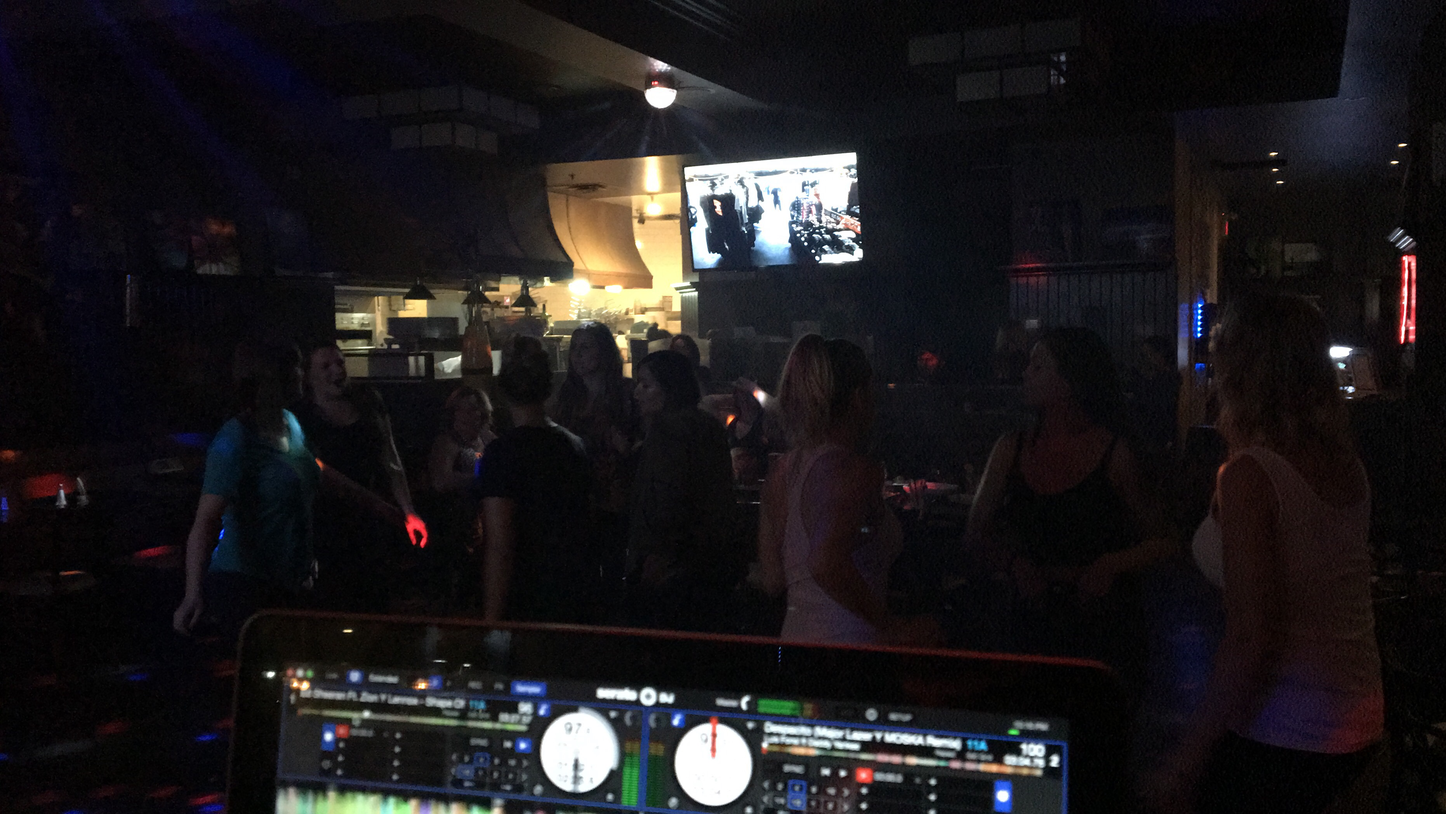
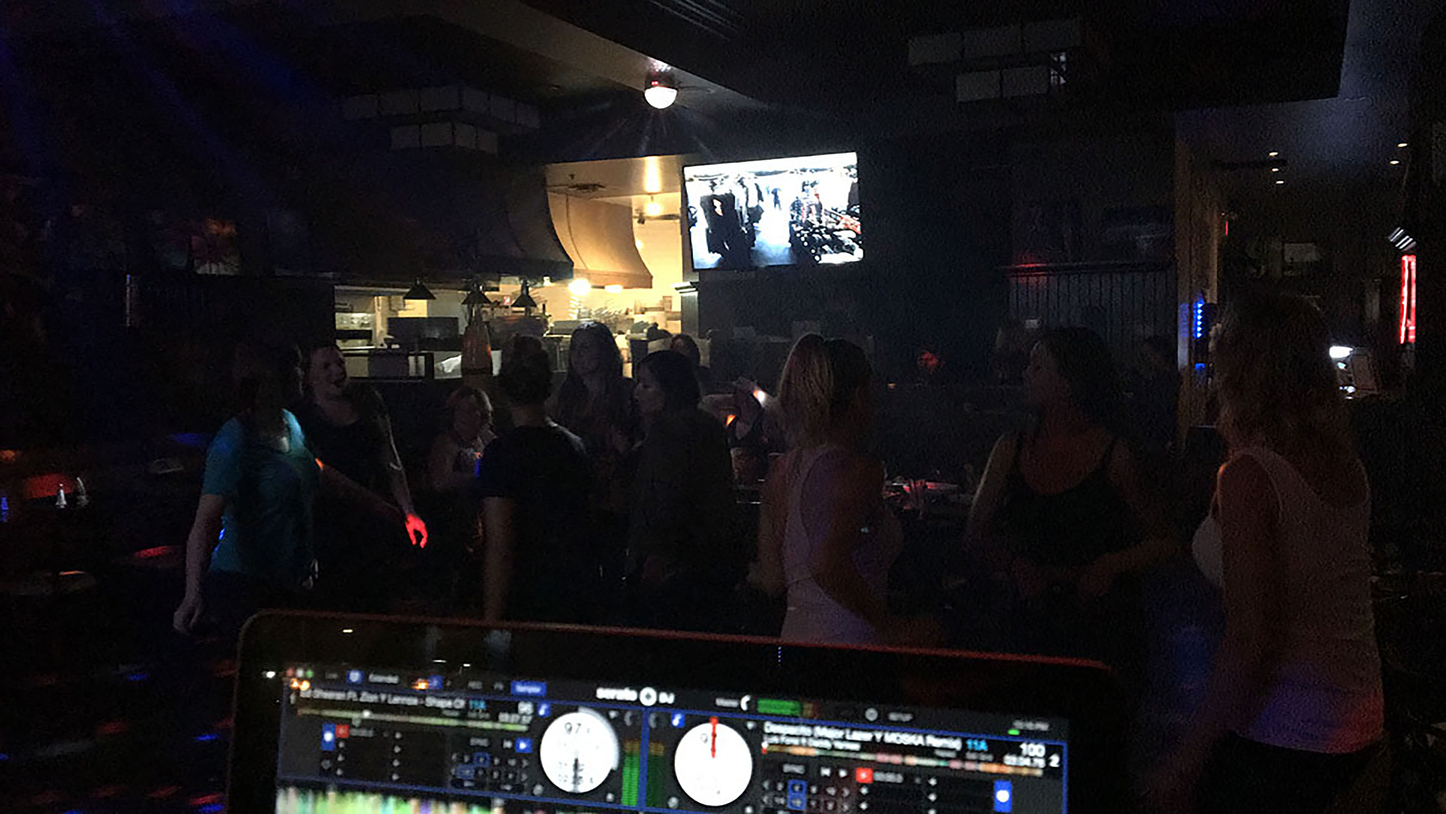
Resize the images for the gallery remove an <a tag

diff --git a/index.html b/index.html
@@ -88,7 +88,7 @@
                 <div class="col-sm-5 col-xs-12 col-sm-offset-1">
                     <div class="player">
                         <img src="images/dj.png" class="graphics hidden-xs  animated fadeInRightBig" alt="dj" />
-                        <iframe width="100%" height="275" scrolling="no" frameborder="no" src="https://w.soundcloud.com/player/?url=https%3A//api.soundcloud.com/users/70560929&amp;color=%23ff9900&amp;auto_play=true&amp;hide_related=false&amp;show_comments=true&amp;show_user=true&amp;show_reposts=false&amp;show_teaser=true"></iframe>
+                        <iframe width="100%" height="275" scrolling="no" frameborder="no" src="https://w.soundcloud.com/player/?url=https%3A//api.soundcloud.com/users/70560929&amp;color=%23ff9900&amp;auto_play=false&amp;hide_related=false&amp;show_comments=true&amp;show_user=true&amp;show_reposts=false&amp;show_teaser=true"></iframe>
                     </div>
                 </div>
 
@@ -117,7 +117,7 @@
             </div>
             <!-- About Ends -->
 
-            <!-- latest release starts-->
+            <!-- GALLERY-->
             <div id="album" class="releases spacer">
                 <h3><span class="glyphicon glyphicon-camera"></span> Gallery</h3>
                 <div class="row">
@@ -125,7 +125,7 @@
                         <div class="album"><img src="images/party.jpg" class="img-responsive" alt="music theme" />
                             <div class="albumdetail">
                                 <h5>Oliver Twist</h5>
-                                <!-- <a href="#" class="listen" data-toggle="modal" data-target="#albumdetail"><span class="glyphicon glyphicon-headphones"></span> Listen Song</a> --></div>
+                            </div>
                         </div>
                     </div>
 
@@ -141,7 +141,7 @@
                         <div class="album"><img src="images/party2.jpg" class="img-responsive" alt="music theme" />
                             <div class="albumdetail">
                                 <h5>Oliver Twist</h5>
-                                <!-- <a href="#" class="listen" data-toggle="modal" data-target="#albumdetail"><span class="glyphicon glyphicon-headphones"></span> Listen Song</a> --></div>
+                            </div>
                         </div>
                     </div>
 
@@ -149,7 +149,7 @@
                         <div class="album"><img src="images/twist2.jpg" class="img-responsive" alt="music theme" />
                             <div class="albumdetail">
                                 <h5>Oliver Twist</h5>
-                                <!-- <a href="#" class="listen" data-toggle="modal" data-target="#albumdetail"><span class="glyphicon glyphicon-headphones"></span> Listen Song</a> --></div>
+                            </div>
                         </div>
                     </div>
 
@@ -157,7 +157,7 @@
                         <div class="album"><img src="images/twist1.jpg" class="img-responsive" alt="music theme" />
                             <div class="albumdetail">
                                 <h5>Oliver Twist</h5>
-                                <!-- <a href="#" class="listen" data-toggle="modal" data-target="#albumdetail"><span class="glyphicon glyphicon-headphones"></span> Listen Song</a> --></div>
+                            </div>
                         </div>
                     </div>
 
@@ -165,7 +165,7 @@
                         <div class="album"><img src="images/twist4.jpg" class="img-responsive" alt="music theme" />
                             <div class="albumdetail">
                                 <h5>District Night Club</h5>
-                                <!-- a href="#" class="listen" data-toggle="modal" data-target="#albumdetail"><span class="glyphicon glyphicon-headphones"></span> Listen Song</a> --></div>
+                            </div>
                         </div>
                     </div>
 
@@ -173,7 +173,7 @@
                         <div class="album"><img src="images/dis1.jpg" class="img-responsive" alt="music theme" />
                             <div class="albumdetail">
                                 <h5>District Night Club</h5>
-                                <!-- a href="#" class="listen" data-toggle="modal" data-target="#albumdetail"><span class="glyphicon glyphicon-headphones"></span> Listen Song</a> --></div>
+                            </div>
                         </div>
                     </div>
 
@@ -181,12 +181,12 @@
                         <div class="album"><img src="images/martinibar.jpg" class="img-responsive" alt="music theme" />
                             <div class="albumdetail">
                                 <h5>Martini Bar</h5>
-                                <!-- a href="#" class="listen" data-toggle="modal" data-target="#albumdetail"><span class="glyphicon glyphicon-headphones"></span> Listen Song</a> --></div>
+                            </div>
                         </div>
                     </div>
                 </div>
             </div>
-            <!-- latest release ends-->
+            <!-- GALLERY ends-->
 
             <!--Event Starts-->
             <div id="blogevent" class="blogevent spacer">
@@ -200,7 +200,7 @@
                                 <li>
                                     <div class="row">
                                         <div class="col-xs-12 col-sm-3 col-lg-4">
-                                            <a href="#" data-toggle="modal" data-target="#twist"><img src="images/party1.jpg" class="img-responsive" alt="music theme" /></a>
+                                            <a href="#" data-toggle="modal" data-target="#twist"><img src="images/newTwistedSize.jpg" class="img-responsive" alt="music theme" /></a>
                                         </div>
                                         <div class="col-xs-12  col-sm-6 col-lg-5 ">
                                             <h5><a href="#" data-toggle="modal" data-target="#twist">Twisted Salsa</a></h5>
@@ -325,7 +325,7 @@
     <!-- Footer Starts -->
     <div id="footer">
         <div class="container">
-            Copyright 2017 FactoryDj
+            Copyright 2018 DjTavo
         </div>
     </div>
     <!-- # Footer Ends -->
@@ -376,7 +376,7 @@
                 <div class="blog"="blog">
                     <h2>Twisted Salsa</h2>
 
-                    <a href="#" class="thumbnail"><img src="images/party1.jpg" class="img-reponsive" alt="Salsa" /></a>
+                    <a href="#" class="thumbnail"><img src="images/newTwistedSize.jpg" class="img-reponsive" alt="Salsa" /></a>
 
                     <div class="col-lg-8 col-lg-offset-2">
                         <p>Twisted Salsa.</p>
